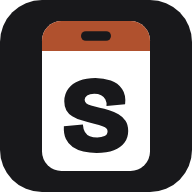
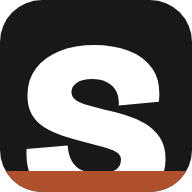
Switch to the cropped-s mark; keep the site light on dark-mode phones
- Mark: the wordmark "s" cropped by the frame with a rust base, replacing
  the pass mark in the nav and in every favicon size (svg, ico, png,
  apple-touch-icon)
- Declare color-scheme "only light" on every page. "light" alone still
  lets Chrome on Android auto-darken the page; "only light" opts out

Claude-Session: https://claude.ai/code/session_01EpaGSmBT7cHG5hsehJczMG

diff --git a/projects/index.html b/projects/index.html
@@ -2,6 +2,7 @@
 <html lang="en">
 <head>
 <meta charset="utf-8">
+<meta name="color-scheme" content="only light">
 <meta name="viewport" content="width=device-width, initial-scale=1, viewport-fit=cover">
 <title>Work | Stanley Ojima</title>
 <meta name="description" content="Case studies and shipped work by Stanley Ojima across HR, fintech, analytics, health and logistics.">
@@ -822,15 +823,16 @@ document.addEventListener('DOMContentLoaded',()=>{const v=[...document.querySele
   @media (max-width:860px){.ls-grid{grid-template-columns:1fr;gap:clamp(1.8rem,5vw,2.4rem)}.ls p{max-width:none}}
   @media (prefers-reduced-motion:reduce){.ls-shot img,.ls-go i{transition:none}.ls:hover .ls-shot img{transform:none}}
 </style>
-<style id="mark-pass">.mark,.g-mark{display:grid!important;place-items:center}.mark svg,.g-mark svg{width:64%;height:auto;display:block}</style>
+<style id="mark-pass">.mark,.g-mark{display:block!important;overflow:hidden;padding:0!important}.mark svg,.g-mark svg{width:100%;height:100%;display:block}</style>
+<style id="light-only">:root{color-scheme:only light}</style>
 </head>
 <body>
-<header class="gnav"><nav class="gcap" aria-label="Primary"><a class="g-mark" href="../" aria-label="Stanley Ojima, home"><svg viewBox="12 5 40 54" width="100%" height="100%" aria-hidden="true"><rect x="14" y="7" width="36" height="50" rx="6.5" fill="#fff"/><path d="M20.5 7h23a6.5 6.5 0 0 1 6.5 6.5V17H14v-3.5A6.5 6.5 0 0 1 20.5 7z" fill="#b0512e"/><rect x="27" y="10.4" width="10" height="3.2" rx="1.6" fill="#18181b"/><g fill="#18181b"><path d="M267 -14Q214 -14 168.5 -3.5Q123 7 89.5 30.0Q56 53 38.5 91.5Q21 130 24 185L165 197Q167 164 180.0 142.5Q193 121 216.0 111.0Q239 101 272 101Q303 101 325.5 111.5Q348 122 348 147Q348 160 340.0 168.5Q332 177 310.5 184.5Q289 192 248 202Q197 215 156.0 228.0Q115 241 86.0 259.0Q57 277 42.0 303.5Q27 330 27 369Q27 424 56.5 462.5Q86 501 138.0 521.5Q190 542 258 542Q319 542 372.0 523.0Q425 504 455.5 461.0Q486 418 478 347L340 334Q343 363 332.0 383.5Q321 404 300.0 414.5Q279 425 249 425Q215 425 196.5 412.5Q178 400 178 381Q178 366 189.5 355.5Q201 345 225.5 337.5Q250 330 289 321Q323 314 360.0 303.0Q397 292 429.0 273.5Q461 255 481.0 225.0Q501 195 501 149Q501 100 474.0 63.0Q447 26 395.0 6.0Q343 -14 267 -14Z" transform="translate(20.21 50.37) scale(0.04496 -0.04496)"/></g></svg></a><a class="g-lnk" href="../about/">About</a><a class="g-lnk on" href="../projects/">Projects</a><a class="g-lnk" href="#contact">Contact</a><a class="g-cv" href="#" data-resume>Resume</a></nav></header>
+<header class="gnav"><nav class="gcap" aria-label="Primary"><a class="g-mark" href="../" aria-label="Stanley Ojima, home"><svg viewBox="0 0 64 64" width="100%" height="100%" aria-hidden="true"><g fill="#fff"><path d="M267 -14Q214 -14 168.5 -3.5Q123 7 89.5 30.0Q56 53 38.5 91.5Q21 130 24 185L165 197Q167 164 180.0 142.5Q193 121 216.0 111.0Q239 101 272 101Q303 101 325.5 111.5Q348 122 348 147Q348 160 340.0 168.5Q332 177 310.5 184.5Q289 192 248 202Q197 215 156.0 228.0Q115 241 86.0 259.0Q57 277 42.0 303.5Q27 330 27 369Q27 424 56.5 462.5Q86 501 138.0 521.5Q190 542 258 542Q319 542 372.0 523.0Q425 504 455.5 461.0Q486 418 478 347L340 334Q343 363 332.0 383.5Q321 404 300.0 414.5Q279 425 249 425Q215 425 196.5 412.5Q178 400 178 381Q178 366 189.5 355.5Q201 345 225.5 337.5Q250 330 289 321Q323 314 360.0 303.0Q397 292 429.0 273.5Q461 255 481.0 225.0Q501 195 501 149Q501 100 474.0 63.0Q447 26 395.0 6.0Q343 -14 267 -14Z" transform="translate(6.53 67.64) scale(0.09712 -0.09712)"/></g><rect y="57" width="64" height="7" fill="#b0512e"/></svg></a><a class="g-lnk" href="../about/">About</a><a class="g-lnk on" href="../projects/">Projects</a><a class="g-lnk" href="#contact">Contact</a><a class="g-cv" href="#" data-resume>Resume</a></nav></header>
 <div class="boot" aria-hidden="true"><div class="boot-name" data-text="projects"></div><div class="boot-row">Five case studies</div></div>
 
 <header class="nav">
   <nav class="capsule" aria-label="Primary">
-    <a class="mark" href="#top" aria-label="Stanley Ojima, home"><svg viewBox="12 5 40 54" width="100%" height="100%" aria-hidden="true"><rect x="14" y="7" width="36" height="50" rx="6.5" fill="#fff"/><path d="M20.5 7h23a6.5 6.5 0 0 1 6.5 6.5V17H14v-3.5A6.5 6.5 0 0 1 20.5 7z" fill="#b0512e"/><rect x="27" y="10.4" width="10" height="3.2" rx="1.6" fill="#18181b"/><g fill="#18181b"><path d="M267 -14Q214 -14 168.5 -3.5Q123 7 89.5 30.0Q56 53 38.5 91.5Q21 130 24 185L165 197Q167 164 180.0 142.5Q193 121 216.0 111.0Q239 101 272 101Q303 101 325.5 111.5Q348 122 348 147Q348 160 340.0 168.5Q332 177 310.5 184.5Q289 192 248 202Q197 215 156.0 228.0Q115 241 86.0 259.0Q57 277 42.0 303.5Q27 330 27 369Q27 424 56.5 462.5Q86 501 138.0 521.5Q190 542 258 542Q319 542 372.0 523.0Q425 504 455.5 461.0Q486 418 478 347L340 334Q343 363 332.0 383.5Q321 404 300.0 414.5Q279 425 249 425Q215 425 196.5 412.5Q178 400 178 381Q178 366 189.5 355.5Q201 345 225.5 337.5Q250 330 289 321Q323 314 360.0 303.0Q397 292 429.0 273.5Q461 255 481.0 225.0Q501 195 501 149Q501 100 474.0 63.0Q447 26 395.0 6.0Q343 -14 267 -14Z" transform="translate(20.21 50.37) scale(0.04496 -0.04496)"/></g></svg></a>
+    <a class="mark" href="#top" aria-label="Stanley Ojima, home"><svg viewBox="0 0 64 64" width="100%" height="100%" aria-hidden="true"><g fill="#fff"><path d="M267 -14Q214 -14 168.5 -3.5Q123 7 89.5 30.0Q56 53 38.5 91.5Q21 130 24 185L165 197Q167 164 180.0 142.5Q193 121 216.0 111.0Q239 101 272 101Q303 101 325.5 111.5Q348 122 348 147Q348 160 340.0 168.5Q332 177 310.5 184.5Q289 192 248 202Q197 215 156.0 228.0Q115 241 86.0 259.0Q57 277 42.0 303.5Q27 330 27 369Q27 424 56.5 462.5Q86 501 138.0 521.5Q190 542 258 542Q319 542 372.0 523.0Q425 504 455.5 461.0Q486 418 478 347L340 334Q343 363 332.0 383.5Q321 404 300.0 414.5Q279 425 249 425Q215 425 196.5 412.5Q178 400 178 381Q178 366 189.5 355.5Q201 345 225.5 337.5Q250 330 289 321Q323 314 360.0 303.0Q397 292 429.0 273.5Q461 255 481.0 225.0Q501 195 501 149Q501 100 474.0 63.0Q447 26 395.0 6.0Q343 -14 267 -14Z" transform="translate(6.53 67.64) scale(0.09712 -0.09712)"/></g><rect y="57" width="64" height="7" fill="#b0512e"/></svg></a>
     <a class="lnk" href="../about/">About</a>
     <a class="lnk" href="./">Projects</a>
     <a class="lnk" href="#contact">Contact</a>
@@ -1294,7 +1296,7 @@ document.addEventListener('DOMContentLoaded',()=>{const v=[...document.querySele
 </script>
 <header class="nav snav" id="snav" inert>
   <nav class="capsule" aria-label="Primary (sticky)">
-    <a class="mark" href="#top" aria-label="Stanley Ojima, home"><svg viewBox="12 5 40 54" width="100%" height="100%" aria-hidden="true"><rect x="14" y="7" width="36" height="50" rx="6.5" fill="#fff"/><path d="M20.5 7h23a6.5 6.5 0 0 1 6.5 6.5V17H14v-3.5A6.5 6.5 0 0 1 20.5 7z" fill="#b0512e"/><rect x="27" y="10.4" width="10" height="3.2" rx="1.6" fill="#18181b"/><g fill="#18181b"><path d="M267 -14Q214 -14 168.5 -3.5Q123 7 89.5 30.0Q56 53 38.5 91.5Q21 130 24 185L165 197Q167 164 180.0 142.5Q193 121 216.0 111.0Q239 101 272 101Q303 101 325.5 111.5Q348 122 348 147Q348 160 340.0 168.5Q332 177 310.5 184.5Q289 192 248 202Q197 215 156.0 228.0Q115 241 86.0 259.0Q57 277 42.0 303.5Q27 330 27 369Q27 424 56.5 462.5Q86 501 138.0 521.5Q190 542 258 542Q319 542 372.0 523.0Q425 504 455.5 461.0Q486 418 478 347L340 334Q343 363 332.0 383.5Q321 404 300.0 414.5Q279 425 249 425Q215 425 196.5 412.5Q178 400 178 381Q178 366 189.5 355.5Q201 345 225.5 337.5Q250 330 289 321Q323 314 360.0 303.0Q397 292 429.0 273.5Q461 255 481.0 225.0Q501 195 501 149Q501 100 474.0 63.0Q447 26 395.0 6.0Q343 -14 267 -14Z" transform="translate(20.21 50.37) scale(0.04496 -0.04496)"/></g></svg></a>
+    <a class="mark" href="#top" aria-label="Stanley Ojima, home"><svg viewBox="0 0 64 64" width="100%" height="100%" aria-hidden="true"><g fill="#fff"><path d="M267 -14Q214 -14 168.5 -3.5Q123 7 89.5 30.0Q56 53 38.5 91.5Q21 130 24 185L165 197Q167 164 180.0 142.5Q193 121 216.0 111.0Q239 101 272 101Q303 101 325.5 111.5Q348 122 348 147Q348 160 340.0 168.5Q332 177 310.5 184.5Q289 192 248 202Q197 215 156.0 228.0Q115 241 86.0 259.0Q57 277 42.0 303.5Q27 330 27 369Q27 424 56.5 462.5Q86 501 138.0 521.5Q190 542 258 542Q319 542 372.0 523.0Q425 504 455.5 461.0Q486 418 478 347L340 334Q343 363 332.0 383.5Q321 404 300.0 414.5Q279 425 249 425Q215 425 196.5 412.5Q178 400 178 381Q178 366 189.5 355.5Q201 345 225.5 337.5Q250 330 289 321Q323 314 360.0 303.0Q397 292 429.0 273.5Q461 255 481.0 225.0Q501 195 501 149Q501 100 474.0 63.0Q447 26 395.0 6.0Q343 -14 267 -14Z" transform="translate(6.53 67.64) scale(0.09712 -0.09712)"/></g><rect y="57" width="64" height="7" fill="#b0512e"/></svg></a>
     <a class="lnk" href="../about/">About</a>
     <a class="lnk" href="./">Projects</a>
     <a class="lnk" href="#contact">Contact</a>

diff --git a/index.html b/index.html
@@ -2,6 +2,7 @@
 <html lang="en">
 <head>
 <meta charset="utf-8">
+<meta name="color-scheme" content="only light">
 <meta name="viewport" content="width=device-width, initial-scale=1, viewport-fit=cover">
 <title>Stanley Ojima, Senior Product Designer</title>
 <meta name="description" content="Senior product designer with 8+ years on B2B SaaS and enterprise products: GoCo (acquired by Intuit), Risevest, Lenox Park and DRO Health, and co-founder of QuickFleet.">
@@ -862,14 +863,15 @@ html.mm-lock,html.mm-lock body{overflow:hidden}
   .badge.sm .card .sub2 .ent{display:none}
   .badge .sleeve{--tilt:-4deg}}
 @media (max-width:767px) and (max-height:780px){.mtop{padding-top:86px!important;padding-bottom:10px!important}.mtop .claim{font-size:20px!important}.mtop .mnow{margin-top:14px;font-size:13.5px}}</style>
-<style id="mark-pass">.mark,.g-mark{display:grid!important;place-items:center}.mark svg,.g-mark svg{width:64%;height:auto;display:block}</style>
+<style id="mark-pass">.mark,.g-mark{display:block!important;overflow:hidden;padding:0!important}.mark svg,.g-mark svg{width:100%;height:100%;display:block}</style>
+<style id="light-only">:root{color-scheme:only light}</style>
 </head>
 <body>
 <div class="boot" aria-hidden="true"><div class="boot-name" data-text="stanley ojima"></div><div class="boot-row">Senior product designer</div></div>
 
 <header class="nav">
   <nav class="capsule" aria-label="Primary">
-    <a class="mark" href="#top" aria-label="Stanley Ojima, home"><svg viewBox="12 5 40 54" width="100%" height="100%" aria-hidden="true"><rect x="14" y="7" width="36" height="50" rx="6.5" fill="#fff"/><path d="M20.5 7h23a6.5 6.5 0 0 1 6.5 6.5V17H14v-3.5A6.5 6.5 0 0 1 20.5 7z" fill="#b0512e"/><rect x="27" y="10.4" width="10" height="3.2" rx="1.6" fill="#18181b"/><g fill="#18181b"><path d="M267 -14Q214 -14 168.5 -3.5Q123 7 89.5 30.0Q56 53 38.5 91.5Q21 130 24 185L165 197Q167 164 180.0 142.5Q193 121 216.0 111.0Q239 101 272 101Q303 101 325.5 111.5Q348 122 348 147Q348 160 340.0 168.5Q332 177 310.5 184.5Q289 192 248 202Q197 215 156.0 228.0Q115 241 86.0 259.0Q57 277 42.0 303.5Q27 330 27 369Q27 424 56.5 462.5Q86 501 138.0 521.5Q190 542 258 542Q319 542 372.0 523.0Q425 504 455.5 461.0Q486 418 478 347L340 334Q343 363 332.0 383.5Q321 404 300.0 414.5Q279 425 249 425Q215 425 196.5 412.5Q178 400 178 381Q178 366 189.5 355.5Q201 345 225.5 337.5Q250 330 289 321Q323 314 360.0 303.0Q397 292 429.0 273.5Q461 255 481.0 225.0Q501 195 501 149Q501 100 474.0 63.0Q447 26 395.0 6.0Q343 -14 267 -14Z" transform="translate(20.21 50.37) scale(0.04496 -0.04496)"/></g></svg></a>
+    <a class="mark" href="#top" aria-label="Stanley Ojima, home"><svg viewBox="0 0 64 64" width="100%" height="100%" aria-hidden="true"><g fill="#fff"><path d="M267 -14Q214 -14 168.5 -3.5Q123 7 89.5 30.0Q56 53 38.5 91.5Q21 130 24 185L165 197Q167 164 180.0 142.5Q193 121 216.0 111.0Q239 101 272 101Q303 101 325.5 111.5Q348 122 348 147Q348 160 340.0 168.5Q332 177 310.5 184.5Q289 192 248 202Q197 215 156.0 228.0Q115 241 86.0 259.0Q57 277 42.0 303.5Q27 330 27 369Q27 424 56.5 462.5Q86 501 138.0 521.5Q190 542 258 542Q319 542 372.0 523.0Q425 504 455.5 461.0Q486 418 478 347L340 334Q343 363 332.0 383.5Q321 404 300.0 414.5Q279 425 249 425Q215 425 196.5 412.5Q178 400 178 381Q178 366 189.5 355.5Q201 345 225.5 337.5Q250 330 289 321Q323 314 360.0 303.0Q397 292 429.0 273.5Q461 255 481.0 225.0Q501 195 501 149Q501 100 474.0 63.0Q447 26 395.0 6.0Q343 -14 267 -14Z" transform="translate(6.53 67.64) scale(0.09712 -0.09712)"/></g><rect y="57" width="64" height="7" fill="#b0512e"/></svg></a>
     <a class="lnk" href="about/">About</a>
     <a class="lnk" href="projects/">Projects</a>
     <a class="lnk" href="#contact">Contact</a>
@@ -1461,7 +1463,7 @@ html.mm-lock,html.mm-lock body{overflow:hidden}
 </script>
 <header class="nav snav" id="snav" inert>
   <nav class="capsule" aria-label="Primary (sticky)">
-    <a class="mark" href="#top" aria-label="Stanley Ojima, home"><svg viewBox="12 5 40 54" width="100%" height="100%" aria-hidden="true"><rect x="14" y="7" width="36" height="50" rx="6.5" fill="#fff"/><path d="M20.5 7h23a6.5 6.5 0 0 1 6.5 6.5V17H14v-3.5A6.5 6.5 0 0 1 20.5 7z" fill="#b0512e"/><rect x="27" y="10.4" width="10" height="3.2" rx="1.6" fill="#18181b"/><g fill="#18181b"><path d="M267 -14Q214 -14 168.5 -3.5Q123 7 89.5 30.0Q56 53 38.5 91.5Q21 130 24 185L165 197Q167 164 180.0 142.5Q193 121 216.0 111.0Q239 101 272 101Q303 101 325.5 111.5Q348 122 348 147Q348 160 340.0 168.5Q332 177 310.5 184.5Q289 192 248 202Q197 215 156.0 228.0Q115 241 86.0 259.0Q57 277 42.0 303.5Q27 330 27 369Q27 424 56.5 462.5Q86 501 138.0 521.5Q190 542 258 542Q319 542 372.0 523.0Q425 504 455.5 461.0Q486 418 478 347L340 334Q343 363 332.0 383.5Q321 404 300.0 414.5Q279 425 249 425Q215 425 196.5 412.5Q178 400 178 381Q178 366 189.5 355.5Q201 345 225.5 337.5Q250 330 289 321Q323 314 360.0 303.0Q397 292 429.0 273.5Q461 255 481.0 225.0Q501 195 501 149Q501 100 474.0 63.0Q447 26 395.0 6.0Q343 -14 267 -14Z" transform="translate(20.21 50.37) scale(0.04496 -0.04496)"/></g></svg></a>
+    <a class="mark" href="#top" aria-label="Stanley Ojima, home"><svg viewBox="0 0 64 64" width="100%" height="100%" aria-hidden="true"><g fill="#fff"><path d="M267 -14Q214 -14 168.5 -3.5Q123 7 89.5 30.0Q56 53 38.5 91.5Q21 130 24 185L165 197Q167 164 180.0 142.5Q193 121 216.0 111.0Q239 101 272 101Q303 101 325.5 111.5Q348 122 348 147Q348 160 340.0 168.5Q332 177 310.5 184.5Q289 192 248 202Q197 215 156.0 228.0Q115 241 86.0 259.0Q57 277 42.0 303.5Q27 330 27 369Q27 424 56.5 462.5Q86 501 138.0 521.5Q190 542 258 542Q319 542 372.0 523.0Q425 504 455.5 461.0Q486 418 478 347L340 334Q343 363 332.0 383.5Q321 404 300.0 414.5Q279 425 249 425Q215 425 196.5 412.5Q178 400 178 381Q178 366 189.5 355.5Q201 345 225.5 337.5Q250 330 289 321Q323 314 360.0 303.0Q397 292 429.0 273.5Q461 255 481.0 225.0Q501 195 501 149Q501 100 474.0 63.0Q447 26 395.0 6.0Q343 -14 267 -14Z" transform="translate(6.53 67.64) scale(0.09712 -0.09712)"/></g><rect y="57" width="64" height="7" fill="#b0512e"/></svg></a>
     <a class="lnk" href="about/">About</a>
     <a class="lnk" href="projects/">Projects</a>
     <a class="lnk" href="#contact">Contact</a>

diff --git a/projects/quickfleet/index.html b/projects/quickfleet/index.html
@@ -3,7 +3,7 @@
 <head>
 <meta charset="UTF-8" />
 <meta name="viewport" content="width=device-width, initial-scale=1.0" />
-<meta name="color-scheme" content="light" />
+<meta name="color-scheme" content="only light">
 <title>QuickFleet case study | Stanley Ojima</title>
 <meta name="description" content="QuickFleet case study: co-founded an electric delivery network for Nigerian cities, and designed the website and customer app it runs on.">
 <link rel="canonical" href="https://stanleyojima.xyz/projects/quickfleet/">
@@ -1684,11 +1684,12 @@ html.boot-on .wordmark{opacity:0}
 @media (max-width:640px){.rp-head{flex-direction:column;align-items:flex-start}.rp-contact{text-align:left}.rp-name{font-size:28px}.rp-row{flex-direction:column;gap:.1rem}}
 </style>
 <script defer src="/_vercel/insights/script.js"></script>
-<style id="mark-pass">.mark,.g-mark{display:grid!important;place-items:center}.mark svg,.g-mark svg{width:64%;height:auto;display:block}</style>
+<style id="mark-pass">.mark,.g-mark{display:block!important;overflow:hidden;padding:0!important}.mark svg,.g-mark svg{width:100%;height:100%;display:block}</style>
+<style id="light-only">:root{color-scheme:only light}</style>
 </head>
 <body id="top">
 <div class="boot" aria-hidden="true"><div class="boot-name" data-text="QuickFleet"></div><div class="boot-row">Electric delivery network</div></div>
-<header class="gnav"><nav class="gcap" aria-label="Primary"><a class="g-mark" href="../../" aria-label="Stanley Ojima, home"><svg viewBox="12 5 40 54" width="100%" height="100%" aria-hidden="true"><rect x="14" y="7" width="36" height="50" rx="6.5" fill="#fff"/><path d="M20.5 7h23a6.5 6.5 0 0 1 6.5 6.5V17H14v-3.5A6.5 6.5 0 0 1 20.5 7z" fill="#b0512e"/><rect x="27" y="10.4" width="10" height="3.2" rx="1.6" fill="#18181b"/><g fill="#18181b"><path d="M267 -14Q214 -14 168.5 -3.5Q123 7 89.5 30.0Q56 53 38.5 91.5Q21 130 24 185L165 197Q167 164 180.0 142.5Q193 121 216.0 111.0Q239 101 272 101Q303 101 325.5 111.5Q348 122 348 147Q348 160 340.0 168.5Q332 177 310.5 184.5Q289 192 248 202Q197 215 156.0 228.0Q115 241 86.0 259.0Q57 277 42.0 303.5Q27 330 27 369Q27 424 56.5 462.5Q86 501 138.0 521.5Q190 542 258 542Q319 542 372.0 523.0Q425 504 455.5 461.0Q486 418 478 347L340 334Q343 363 332.0 383.5Q321 404 300.0 414.5Q279 425 249 425Q215 425 196.5 412.5Q178 400 178 381Q178 366 189.5 355.5Q201 345 225.5 337.5Q250 330 289 321Q323 314 360.0 303.0Q397 292 429.0 273.5Q461 255 481.0 225.0Q501 195 501 149Q501 100 474.0 63.0Q447 26 395.0 6.0Q343 -14 267 -14Z" transform="translate(20.21 50.37) scale(0.04496 -0.04496)"/></g></svg></a><a class="g-lnk" href="../../about/">About</a><a class="g-lnk" href="../../projects/">Projects</a><a class="g-lnk" href="#contact">Contact</a><a class="g-cv" href="#" data-resume>Resume</a></nav></header>
+<header class="gnav"><nav class="gcap" aria-label="Primary"><a class="g-mark" href="../../" aria-label="Stanley Ojima, home"><svg viewBox="0 0 64 64" width="100%" height="100%" aria-hidden="true"><g fill="#fff"><path d="M267 -14Q214 -14 168.5 -3.5Q123 7 89.5 30.0Q56 53 38.5 91.5Q21 130 24 185L165 197Q167 164 180.0 142.5Q193 121 216.0 111.0Q239 101 272 101Q303 101 325.5 111.5Q348 122 348 147Q348 160 340.0 168.5Q332 177 310.5 184.5Q289 192 248 202Q197 215 156.0 228.0Q115 241 86.0 259.0Q57 277 42.0 303.5Q27 330 27 369Q27 424 56.5 462.5Q86 501 138.0 521.5Q190 542 258 542Q319 542 372.0 523.0Q425 504 455.5 461.0Q486 418 478 347L340 334Q343 363 332.0 383.5Q321 404 300.0 414.5Q279 425 249 425Q215 425 196.5 412.5Q178 400 178 381Q178 366 189.5 355.5Q201 345 225.5 337.5Q250 330 289 321Q323 314 360.0 303.0Q397 292 429.0 273.5Q461 255 481.0 225.0Q501 195 501 149Q501 100 474.0 63.0Q447 26 395.0 6.0Q343 -14 267 -14Z" transform="translate(6.53 67.64) scale(0.09712 -0.09712)"/></g><rect y="57" width="64" height="7" fill="#b0512e"/></svg></a><a class="g-lnk" href="../../about/">About</a><a class="g-lnk" href="../../projects/">Projects</a><a class="g-lnk" href="#contact">Contact</a><a class="g-cv" href="#" data-resume>Resume</a></nav></header>
 <div class="grain" aria-hidden="true"></div>
 <header class="nav nav-pill">
   <div class="nav-inner"><div class="capsule">

diff --git a/projects/goco/index.html b/projects/goco/index.html
@@ -3,7 +3,7 @@
 <head>
 <meta charset="UTF-8" />
 <meta name="viewport" content="width=device-width, initial-scale=1.0" />
-<meta name="color-scheme" content="light" />
+<meta name="color-scheme" content="only light">
 <title>GoCo case study | Stanley Ojima</title>
 <meta name="description" content="GoCo case study: led design across an HR platform for 200K+ users and rebuilt Reports, the feature customers trusted least. Support tickets down 30%.">
 <link rel="canonical" href="https://stanleyojima.xyz/projects/goco/">
@@ -1733,11 +1733,12 @@ html.boot-on .wordmark{opacity:0}
 @media (max-width:640px){.rp-head{flex-direction:column;align-items:flex-start}.rp-contact{text-align:left}.rp-name{font-size:28px}.rp-row{flex-direction:column;gap:.1rem}}
 </style>
 <script defer src="/_vercel/insights/script.js"></script>
-<style id="mark-pass">.mark,.g-mark{display:grid!important;place-items:center}.mark svg,.g-mark svg{width:64%;height:auto;display:block}</style>
+<style id="mark-pass">.mark,.g-mark{display:block!important;overflow:hidden;padding:0!important}.mark svg,.g-mark svg{width:100%;height:100%;display:block}</style>
+<style id="light-only">:root{color-scheme:only light}</style>
 </head>
 <body id="top">
 <div class="boot" aria-hidden="true"><div class="boot-name" data-text="GoCo"></div><div class="boot-row">HR, benefits and payroll</div></div>
-<header class="gnav"><nav class="gcap" aria-label="Primary"><a class="g-mark" href="../../" aria-label="Stanley Ojima, home"><svg viewBox="12 5 40 54" width="100%" height="100%" aria-hidden="true"><rect x="14" y="7" width="36" height="50" rx="6.5" fill="#fff"/><path d="M20.5 7h23a6.5 6.5 0 0 1 6.5 6.5V17H14v-3.5A6.5 6.5 0 0 1 20.5 7z" fill="#b0512e"/><rect x="27" y="10.4" width="10" height="3.2" rx="1.6" fill="#18181b"/><g fill="#18181b"><path d="M267 -14Q214 -14 168.5 -3.5Q123 7 89.5 30.0Q56 53 38.5 91.5Q21 130 24 185L165 197Q167 164 180.0 142.5Q193 121 216.0 111.0Q239 101 272 101Q303 101 325.5 111.5Q348 122 348 147Q348 160 340.0 168.5Q332 177 310.5 184.5Q289 192 248 202Q197 215 156.0 228.0Q115 241 86.0 259.0Q57 277 42.0 303.5Q27 330 27 369Q27 424 56.5 462.5Q86 501 138.0 521.5Q190 542 258 542Q319 542 372.0 523.0Q425 504 455.5 461.0Q486 418 478 347L340 334Q343 363 332.0 383.5Q321 404 300.0 414.5Q279 425 249 425Q215 425 196.5 412.5Q178 400 178 381Q178 366 189.5 355.5Q201 345 225.5 337.5Q250 330 289 321Q323 314 360.0 303.0Q397 292 429.0 273.5Q461 255 481.0 225.0Q501 195 501 149Q501 100 474.0 63.0Q447 26 395.0 6.0Q343 -14 267 -14Z" transform="translate(20.21 50.37) scale(0.04496 -0.04496)"/></g></svg></a><a class="g-lnk" href="../../about/">About</a><a class="g-lnk" href="../../projects/">Projects</a><a class="g-lnk" href="#contact">Contact</a><a class="g-cv" href="#" data-resume>Resume</a></nav></header>
+<header class="gnav"><nav class="gcap" aria-label="Primary"><a class="g-mark" href="../../" aria-label="Stanley Ojima, home"><svg viewBox="0 0 64 64" width="100%" height="100%" aria-hidden="true"><g fill="#fff"><path d="M267 -14Q214 -14 168.5 -3.5Q123 7 89.5 30.0Q56 53 38.5 91.5Q21 130 24 185L165 197Q167 164 180.0 142.5Q193 121 216.0 111.0Q239 101 272 101Q303 101 325.5 111.5Q348 122 348 147Q348 160 340.0 168.5Q332 177 310.5 184.5Q289 192 248 202Q197 215 156.0 228.0Q115 241 86.0 259.0Q57 277 42.0 303.5Q27 330 27 369Q27 424 56.5 462.5Q86 501 138.0 521.5Q190 542 258 542Q319 542 372.0 523.0Q425 504 455.5 461.0Q486 418 478 347L340 334Q343 363 332.0 383.5Q321 404 300.0 414.5Q279 425 249 425Q215 425 196.5 412.5Q178 400 178 381Q178 366 189.5 355.5Q201 345 225.5 337.5Q250 330 289 321Q323 314 360.0 303.0Q397 292 429.0 273.5Q461 255 481.0 225.0Q501 195 501 149Q501 100 474.0 63.0Q447 26 395.0 6.0Q343 -14 267 -14Z" transform="translate(6.53 67.64) scale(0.09712 -0.09712)"/></g><rect y="57" width="64" height="7" fill="#b0512e"/></svg></a><a class="g-lnk" href="../../about/">About</a><a class="g-lnk" href="../../projects/">Projects</a><a class="g-lnk" href="#contact">Contact</a><a class="g-cv" href="#" data-resume>Resume</a></nav></header>
 <div class="grain" aria-hidden="true"></div>
 <header class="nav nav-pill">
   <div class="nav-inner"><div class="capsule">

diff --git a/404.html b/404.html
@@ -1,5 +1,5 @@
 <!DOCTYPE html><html lang="en"><head>
-<meta charset="UTF-8" /><meta name="viewport" content="width=device-width, initial-scale=1.0" /><meta name="color-scheme" content="light" />
+<meta charset="UTF-8" /><meta name="viewport" content="width=device-width, initial-scale=1.0" /><meta name="color-scheme" content="only light">
 <title>Page not found | Stanley Ojima</title>
 <meta name="robots" content="noindex">
 <link rel="icon" href="/favicon.ico" sizes="48x48">
@@ -494,10 +494,11 @@
 </style><link href="https://fonts.googleapis.com/css2?family=Geist:wght@300..800&family=Geist+Mono:wght@400;500&display=swap" rel="stylesheet">
 <style>html:root{--display:'Geist',system-ui,sans-serif;--body:'Geist',system-ui,sans-serif;--mono:'Geist Mono',ui-monospace,monospace}h1,h2,p,a{text-transform:none!important}</style>
 <script defer src="/_vercel/insights/script.js"></script>
-<style id="mark-pass">.mark,.g-mark{display:grid!important;place-items:center}.mark svg,.g-mark svg{width:64%;height:auto;display:block}</style>
+<style id="mark-pass">.mark,.g-mark{display:block!important;overflow:hidden;padding:0!important}.mark svg,.g-mark svg{width:100%;height:100%;display:block}</style>
+<style id="light-only">:root{color-scheme:only light}</style>
 </head>
 <body id="top">
-<header class="gnav"><nav class="gcap" aria-label="Primary"><a class="g-mark" href="/" aria-label="Stanley Ojima, home"><svg viewBox="12 5 40 54" width="100%" height="100%" aria-hidden="true"><rect x="14" y="7" width="36" height="50" rx="6.5" fill="#fff"/><path d="M20.5 7h23a6.5 6.5 0 0 1 6.5 6.5V17H14v-3.5A6.5 6.5 0 0 1 20.5 7z" fill="#b0512e"/><rect x="27" y="10.4" width="10" height="3.2" rx="1.6" fill="#18181b"/><g fill="#18181b"><path d="M267 -14Q214 -14 168.5 -3.5Q123 7 89.5 30.0Q56 53 38.5 91.5Q21 130 24 185L165 197Q167 164 180.0 142.5Q193 121 216.0 111.0Q239 101 272 101Q303 101 325.5 111.5Q348 122 348 147Q348 160 340.0 168.5Q332 177 310.5 184.5Q289 192 248 202Q197 215 156.0 228.0Q115 241 86.0 259.0Q57 277 42.0 303.5Q27 330 27 369Q27 424 56.5 462.5Q86 501 138.0 521.5Q190 542 258 542Q319 542 372.0 523.0Q425 504 455.5 461.0Q486 418 478 347L340 334Q343 363 332.0 383.5Q321 404 300.0 414.5Q279 425 249 425Q215 425 196.5 412.5Q178 400 178 381Q178 366 189.5 355.5Q201 345 225.5 337.5Q250 330 289 321Q323 314 360.0 303.0Q397 292 429.0 273.5Q461 255 481.0 225.0Q501 195 501 149Q501 100 474.0 63.0Q447 26 395.0 6.0Q343 -14 267 -14Z" transform="translate(20.21 50.37) scale(0.04496 -0.04496)"/></g></svg></a><a class="g-lnk" href="/about/">About</a><a class="g-lnk" href="/projects/">Projects</a><a class="g-lnk" href="#contact">Contact</a><a class="g-cv" href="#" data-resume>Resume</a></nav></header><div class="grain" aria-hidden="true"></div>
+<header class="gnav"><nav class="gcap" aria-label="Primary"><a class="g-mark" href="/" aria-label="Stanley Ojima, home"><svg viewBox="0 0 64 64" width="100%" height="100%" aria-hidden="true"><g fill="#fff"><path d="M267 -14Q214 -14 168.5 -3.5Q123 7 89.5 30.0Q56 53 38.5 91.5Q21 130 24 185L165 197Q167 164 180.0 142.5Q193 121 216.0 111.0Q239 101 272 101Q303 101 325.5 111.5Q348 122 348 147Q348 160 340.0 168.5Q332 177 310.5 184.5Q289 192 248 202Q197 215 156.0 228.0Q115 241 86.0 259.0Q57 277 42.0 303.5Q27 330 27 369Q27 424 56.5 462.5Q86 501 138.0 521.5Q190 542 258 542Q319 542 372.0 523.0Q425 504 455.5 461.0Q486 418 478 347L340 334Q343 363 332.0 383.5Q321 404 300.0 414.5Q279 425 249 425Q215 425 196.5 412.5Q178 400 178 381Q178 366 189.5 355.5Q201 345 225.5 337.5Q250 330 289 321Q323 314 360.0 303.0Q397 292 429.0 273.5Q461 255 481.0 225.0Q501 195 501 149Q501 100 474.0 63.0Q447 26 395.0 6.0Q343 -14 267 -14Z" transform="translate(6.53 67.64) scale(0.09712 -0.09712)"/></g><rect y="57" width="64" height="7" fill="#b0512e"/></svg></a><a class="g-lnk" href="/about/">About</a><a class="g-lnk" href="/projects/">Projects</a><a class="g-lnk" href="#contact">Contact</a><a class="g-cv" href="#" data-resume>Resume</a></nav></header><div class="grain" aria-hidden="true"></div>
 <main class="nf"><div class="nf-inner">
   <p class="nf-eyebrow">404</p>
   <h1 class="nf-title">This page wandered off.</h1>

diff --git a/projects/risevest/index.html b/projects/risevest/index.html
@@ -3,7 +3,7 @@
 <head>
 <meta charset="UTF-8" />
 <meta name="viewport" content="width=device-width, initial-scale=1.0" />
-<meta name="color-scheme" content="light" />
+<meta name="color-scheme" content="only light">
 <title>Risevest case study | Stanley Ojima</title>
 <meta name="description" content="Risevest case study: redesigned a dollar-investment app for 620K+ users. Onboarding completion rose from 34% to 58%.">
 <link rel="canonical" href="https://stanleyojima.xyz/projects/risevest/">
@@ -1689,11 +1689,12 @@ html.boot-on .wordmark{opacity:0}
 @media (max-width:640px){.rp-head{flex-direction:column;align-items:flex-start}.rp-contact{text-align:left}.rp-name{font-size:28px}.rp-row{flex-direction:column;gap:.1rem}}
 </style>
 <script defer src="/_vercel/insights/script.js"></script>
-<style id="mark-pass">.mark,.g-mark{display:grid!important;place-items:center}.mark svg,.g-mark svg{width:64%;height:auto;display:block}</style>
+<style id="mark-pass">.mark,.g-mark{display:block!important;overflow:hidden;padding:0!important}.mark svg,.g-mark svg{width:100%;height:100%;display:block}</style>
+<style id="light-only">:root{color-scheme:only light}</style>
 </head>
 <body id="top">
 <div class="boot" aria-hidden="true"><div class="boot-name" data-text="Risevest"></div><div class="boot-row">Investment app · 620K+ users</div></div>
-<header class="gnav"><nav class="gcap" aria-label="Primary"><a class="g-mark" href="../../" aria-label="Stanley Ojima, home"><svg viewBox="12 5 40 54" width="100%" height="100%" aria-hidden="true"><rect x="14" y="7" width="36" height="50" rx="6.5" fill="#fff"/><path d="M20.5 7h23a6.5 6.5 0 0 1 6.5 6.5V17H14v-3.5A6.5 6.5 0 0 1 20.5 7z" fill="#b0512e"/><rect x="27" y="10.4" width="10" height="3.2" rx="1.6" fill="#18181b"/><g fill="#18181b"><path d="M267 -14Q214 -14 168.5 -3.5Q123 7 89.5 30.0Q56 53 38.5 91.5Q21 130 24 185L165 197Q167 164 180.0 142.5Q193 121 216.0 111.0Q239 101 272 101Q303 101 325.5 111.5Q348 122 348 147Q348 160 340.0 168.5Q332 177 310.5 184.5Q289 192 248 202Q197 215 156.0 228.0Q115 241 86.0 259.0Q57 277 42.0 303.5Q27 330 27 369Q27 424 56.5 462.5Q86 501 138.0 521.5Q190 542 258 542Q319 542 372.0 523.0Q425 504 455.5 461.0Q486 418 478 347L340 334Q343 363 332.0 383.5Q321 404 300.0 414.5Q279 425 249 425Q215 425 196.5 412.5Q178 400 178 381Q178 366 189.5 355.5Q201 345 225.5 337.5Q250 330 289 321Q323 314 360.0 303.0Q397 292 429.0 273.5Q461 255 481.0 225.0Q501 195 501 149Q501 100 474.0 63.0Q447 26 395.0 6.0Q343 -14 267 -14Z" transform="translate(20.21 50.37) scale(0.04496 -0.04496)"/></g></svg></a><a class="g-lnk" href="../../about/">About</a><a class="g-lnk" href="../../projects/">Projects</a><a class="g-lnk" href="#contact">Contact</a><a class="g-cv" href="#" data-resume>Resume</a></nav></header>
+<header class="gnav"><nav class="gcap" aria-label="Primary"><a class="g-mark" href="../../" aria-label="Stanley Ojima, home"><svg viewBox="0 0 64 64" width="100%" height="100%" aria-hidden="true"><g fill="#fff"><path d="M267 -14Q214 -14 168.5 -3.5Q123 7 89.5 30.0Q56 53 38.5 91.5Q21 130 24 185L165 197Q167 164 180.0 142.5Q193 121 216.0 111.0Q239 101 272 101Q303 101 325.5 111.5Q348 122 348 147Q348 160 340.0 168.5Q332 177 310.5 184.5Q289 192 248 202Q197 215 156.0 228.0Q115 241 86.0 259.0Q57 277 42.0 303.5Q27 330 27 369Q27 424 56.5 462.5Q86 501 138.0 521.5Q190 542 258 542Q319 542 372.0 523.0Q425 504 455.5 461.0Q486 418 478 347L340 334Q343 363 332.0 383.5Q321 404 300.0 414.5Q279 425 249 425Q215 425 196.5 412.5Q178 400 178 381Q178 366 189.5 355.5Q201 345 225.5 337.5Q250 330 289 321Q323 314 360.0 303.0Q397 292 429.0 273.5Q461 255 481.0 225.0Q501 195 501 149Q501 100 474.0 63.0Q447 26 395.0 6.0Q343 -14 267 -14Z" transform="translate(6.53 67.64) scale(0.09712 -0.09712)"/></g><rect y="57" width="64" height="7" fill="#b0512e"/></svg></a><a class="g-lnk" href="../../about/">About</a><a class="g-lnk" href="../../projects/">Projects</a><a class="g-lnk" href="#contact">Contact</a><a class="g-cv" href="#" data-resume>Resume</a></nav></header>
 <div class="grain" aria-hidden="true"></div>
 <header class="nav nav-pill">
   <div class="nav-inner"><div class="capsule">

diff --git a/projects/lenox-park/index.html b/projects/lenox-park/index.html
@@ -3,7 +3,7 @@
 <head>
 <meta charset="UTF-8" />
 <meta name="viewport" content="width=device-width, initial-scale=1.0" />
-<meta name="color-scheme" content="light" />
+<meta name="color-scheme" content="only light">
 <title>Lenox Park case study | Stanley Ojima</title>
 <meta name="description" content="Lenox Park case study: sole designer on an analytics platform for institutional investors with $4T+ in client assets.">
 <link rel="canonical" href="https://stanleyojima.xyz/projects/lenox-park/">
@@ -1682,11 +1682,12 @@ html.boot-on .wordmark{opacity:0}
 @media (max-width:640px){.rp-head{flex-direction:column;align-items:flex-start}.rp-contact{text-align:left}.rp-name{font-size:28px}.rp-row{flex-direction:column;gap:.1rem}}
 </style>
 <script defer src="/_vercel/insights/script.js"></script>
-<style id="mark-pass">.mark,.g-mark{display:grid!important;place-items:center}.mark svg,.g-mark svg{width:64%;height:auto;display:block}</style>
+<style id="mark-pass">.mark,.g-mark{display:block!important;overflow:hidden;padding:0!important}.mark svg,.g-mark svg{width:100%;height:100%;display:block}</style>
+<style id="light-only">:root{color-scheme:only light}</style>
 </head>
 <body id="top">
 <div class="boot" aria-hidden="true"><div class="boot-name" data-text="Lenox Park"></div><div class="boot-row">DEI analytics</div></div>
-<header class="gnav"><nav class="gcap" aria-label="Primary"><a class="g-mark" href="../../" aria-label="Stanley Ojima, home"><svg viewBox="12 5 40 54" width="100%" height="100%" aria-hidden="true"><rect x="14" y="7" width="36" height="50" rx="6.5" fill="#fff"/><path d="M20.5 7h23a6.5 6.5 0 0 1 6.5 6.5V17H14v-3.5A6.5 6.5 0 0 1 20.5 7z" fill="#b0512e"/><rect x="27" y="10.4" width="10" height="3.2" rx="1.6" fill="#18181b"/><g fill="#18181b"><path d="M267 -14Q214 -14 168.5 -3.5Q123 7 89.5 30.0Q56 53 38.5 91.5Q21 130 24 185L165 197Q167 164 180.0 142.5Q193 121 216.0 111.0Q239 101 272 101Q303 101 325.5 111.5Q348 122 348 147Q348 160 340.0 168.5Q332 177 310.5 184.5Q289 192 248 202Q197 215 156.0 228.0Q115 241 86.0 259.0Q57 277 42.0 303.5Q27 330 27 369Q27 424 56.5 462.5Q86 501 138.0 521.5Q190 542 258 542Q319 542 372.0 523.0Q425 504 455.5 461.0Q486 418 478 347L340 334Q343 363 332.0 383.5Q321 404 300.0 414.5Q279 425 249 425Q215 425 196.5 412.5Q178 400 178 381Q178 366 189.5 355.5Q201 345 225.5 337.5Q250 330 289 321Q323 314 360.0 303.0Q397 292 429.0 273.5Q461 255 481.0 225.0Q501 195 501 149Q501 100 474.0 63.0Q447 26 395.0 6.0Q343 -14 267 -14Z" transform="translate(20.21 50.37) scale(0.04496 -0.04496)"/></g></svg></a><a class="g-lnk" href="../../about/">About</a><a class="g-lnk" href="../../projects/">Projects</a><a class="g-lnk" href="#contact">Contact</a><a class="g-cv" href="#" data-resume>Resume</a></nav></header>
+<header class="gnav"><nav class="gcap" aria-label="Primary"><a class="g-mark" href="../../" aria-label="Stanley Ojima, home"><svg viewBox="0 0 64 64" width="100%" height="100%" aria-hidden="true"><g fill="#fff"><path d="M267 -14Q214 -14 168.5 -3.5Q123 7 89.5 30.0Q56 53 38.5 91.5Q21 130 24 185L165 197Q167 164 180.0 142.5Q193 121 216.0 111.0Q239 101 272 101Q303 101 325.5 111.5Q348 122 348 147Q348 160 340.0 168.5Q332 177 310.5 184.5Q289 192 248 202Q197 215 156.0 228.0Q115 241 86.0 259.0Q57 277 42.0 303.5Q27 330 27 369Q27 424 56.5 462.5Q86 501 138.0 521.5Q190 542 258 542Q319 542 372.0 523.0Q425 504 455.5 461.0Q486 418 478 347L340 334Q343 363 332.0 383.5Q321 404 300.0 414.5Q279 425 249 425Q215 425 196.5 412.5Q178 400 178 381Q178 366 189.5 355.5Q201 345 225.5 337.5Q250 330 289 321Q323 314 360.0 303.0Q397 292 429.0 273.5Q461 255 481.0 225.0Q501 195 501 149Q501 100 474.0 63.0Q447 26 395.0 6.0Q343 -14 267 -14Z" transform="translate(6.53 67.64) scale(0.09712 -0.09712)"/></g><rect y="57" width="64" height="7" fill="#b0512e"/></svg></a><a class="g-lnk" href="../../about/">About</a><a class="g-lnk" href="../../projects/">Projects</a><a class="g-lnk" href="#contact">Contact</a><a class="g-cv" href="#" data-resume>Resume</a></nav></header>
 <div class="grain" aria-hidden="true"></div>
 <header class="nav nav-pill">
   <div class="nav-inner"><div class="capsule">

diff --git a/projects/dro-health/index.html b/projects/dro-health/index.html
@@ -3,7 +3,7 @@
 <head>
 <meta charset="UTF-8" />
 <meta name="viewport" content="width=device-width, initial-scale=1.0" />
-<meta name="color-scheme" content="light" />
+<meta name="color-scheme" content="only light">
 <title>DRO Health case study | Stanley Ojima</title>
 <meta name="description" content="DRO Health case study: redesigned telehealth for 50K+ users in Nigeria. Sign-up drop-off down 18%.">
 <link rel="canonical" href="https://stanleyojima.xyz/projects/dro-health/">
@@ -1792,11 +1792,12 @@ html.boot-on .wordmark{opacity:0}
 @media (max-width:640px){.rp-head{flex-direction:column;align-items:flex-start}.rp-contact{text-align:left}.rp-name{font-size:28px}.rp-row{flex-direction:column;gap:.1rem}}
 </style>
 <script defer src="/_vercel/insights/script.js"></script>
-<style id="mark-pass">.mark,.g-mark{display:grid!important;place-items:center}.mark svg,.g-mark svg{width:64%;height:auto;display:block}</style>
+<style id="mark-pass">.mark,.g-mark{display:block!important;overflow:hidden;padding:0!important}.mark svg,.g-mark svg{width:100%;height:100%;display:block}</style>
+<style id="light-only">:root{color-scheme:only light}</style>
 </head>
 <body id="top">
 <div class="boot" aria-hidden="true"><div class="boot-name" data-text="DRO Health"></div><div class="boot-row">Telehealth platform</div></div>
-<header class="gnav"><nav class="gcap" aria-label="Primary"><a class="g-mark" href="../../" aria-label="Stanley Ojima, home"><svg viewBox="12 5 40 54" width="100%" height="100%" aria-hidden="true"><rect x="14" y="7" width="36" height="50" rx="6.5" fill="#fff"/><path d="M20.5 7h23a6.5 6.5 0 0 1 6.5 6.5V17H14v-3.5A6.5 6.5 0 0 1 20.5 7z" fill="#b0512e"/><rect x="27" y="10.4" width="10" height="3.2" rx="1.6" fill="#18181b"/><g fill="#18181b"><path d="M267 -14Q214 -14 168.5 -3.5Q123 7 89.5 30.0Q56 53 38.5 91.5Q21 130 24 185L165 197Q167 164 180.0 142.5Q193 121 216.0 111.0Q239 101 272 101Q303 101 325.5 111.5Q348 122 348 147Q348 160 340.0 168.5Q332 177 310.5 184.5Q289 192 248 202Q197 215 156.0 228.0Q115 241 86.0 259.0Q57 277 42.0 303.5Q27 330 27 369Q27 424 56.5 462.5Q86 501 138.0 521.5Q190 542 258 542Q319 542 372.0 523.0Q425 504 455.5 461.0Q486 418 478 347L340 334Q343 363 332.0 383.5Q321 404 300.0 414.5Q279 425 249 425Q215 425 196.5 412.5Q178 400 178 381Q178 366 189.5 355.5Q201 345 225.5 337.5Q250 330 289 321Q323 314 360.0 303.0Q397 292 429.0 273.5Q461 255 481.0 225.0Q501 195 501 149Q501 100 474.0 63.0Q447 26 395.0 6.0Q343 -14 267 -14Z" transform="translate(20.21 50.37) scale(0.04496 -0.04496)"/></g></svg></a><a class="g-lnk" href="../../about/">About</a><a class="g-lnk" href="../../projects/">Projects</a><a class="g-lnk" href="#contact">Contact</a><a class="g-cv" href="#" data-resume>Resume</a></nav></header>
+<header class="gnav"><nav class="gcap" aria-label="Primary"><a class="g-mark" href="../../" aria-label="Stanley Ojima, home"><svg viewBox="0 0 64 64" width="100%" height="100%" aria-hidden="true"><g fill="#fff"><path d="M267 -14Q214 -14 168.5 -3.5Q123 7 89.5 30.0Q56 53 38.5 91.5Q21 130 24 185L165 197Q167 164 180.0 142.5Q193 121 216.0 111.0Q239 101 272 101Q303 101 325.5 111.5Q348 122 348 147Q348 160 340.0 168.5Q332 177 310.5 184.5Q289 192 248 202Q197 215 156.0 228.0Q115 241 86.0 259.0Q57 277 42.0 303.5Q27 330 27 369Q27 424 56.5 462.5Q86 501 138.0 521.5Q190 542 258 542Q319 542 372.0 523.0Q425 504 455.5 461.0Q486 418 478 347L340 334Q343 363 332.0 383.5Q321 404 300.0 414.5Q279 425 249 425Q215 425 196.5 412.5Q178 400 178 381Q178 366 189.5 355.5Q201 345 225.5 337.5Q250 330 289 321Q323 314 360.0 303.0Q397 292 429.0 273.5Q461 255 481.0 225.0Q501 195 501 149Q501 100 474.0 63.0Q447 26 395.0 6.0Q343 -14 267 -14Z" transform="translate(6.53 67.64) scale(0.09712 -0.09712)"/></g><rect y="57" width="64" height="7" fill="#b0512e"/></svg></a><a class="g-lnk" href="../../about/">About</a><a class="g-lnk" href="../../projects/">Projects</a><a class="g-lnk" href="#contact">Contact</a><a class="g-cv" href="#" data-resume>Resume</a></nav></header>
 <div class="grain" aria-hidden="true"></div>
 <header class="nav nav-pill">
   <div class="nav-inner"><div class="capsule">

diff --git a/about/index.html b/about/index.html
@@ -3,7 +3,7 @@
 <head>
 <meta charset="UTF-8" />
 <meta name="viewport" content="width=device-width, initial-scale=1.0" />
-<meta name="color-scheme" content="light" />
+<meta name="color-scheme" content="only light">
 <title>About | Stanley Ojima</title>
 <meta name="description" content="About Stanley Ojima: senior product designer with 8+ years on B2B SaaS and enterprise products across HR, fintech, health and logistics.">
 <link rel="canonical" href="https://stanleyojima.xyz/about/">
@@ -1742,11 +1742,12 @@ html.boot-on .wordmark{opacity:0}
 @media (max-width:640px){.rp-head{flex-direction:column;align-items:flex-start}.rp-contact{text-align:left}.rp-name{font-size:28px}.rp-row{flex-direction:column;gap:.1rem}}
 </style>
 <script defer src="/_vercel/insights/script.js"></script>
-<style id="mark-pass">.mark,.g-mark{display:grid!important;place-items:center}.mark svg,.g-mark svg{width:64%;height:auto;display:block}</style>
+<style id="mark-pass">.mark,.g-mark{display:block!important;overflow:hidden;padding:0!important}.mark svg,.g-mark svg{width:100%;height:100%;display:block}</style>
+<style id="light-only">:root{color-scheme:only light}</style>
 </head>
 <body id="top">
 <div class="boot" aria-hidden="true"><div class="boot-name" data-text="about"></div><div class="boot-row">Stanley Ojima</div></div>
-<header class="gnav"><nav class="gcap" aria-label="Primary"><a class="g-mark" href="../" aria-label="Stanley Ojima, home"><svg viewBox="12 5 40 54" width="100%" height="100%" aria-hidden="true"><rect x="14" y="7" width="36" height="50" rx="6.5" fill="#fff"/><path d="M20.5 7h23a6.5 6.5 0 0 1 6.5 6.5V17H14v-3.5A6.5 6.5 0 0 1 20.5 7z" fill="#b0512e"/><rect x="27" y="10.4" width="10" height="3.2" rx="1.6" fill="#18181b"/><g fill="#18181b"><path d="M267 -14Q214 -14 168.5 -3.5Q123 7 89.5 30.0Q56 53 38.5 91.5Q21 130 24 185L165 197Q167 164 180.0 142.5Q193 121 216.0 111.0Q239 101 272 101Q303 101 325.5 111.5Q348 122 348 147Q348 160 340.0 168.5Q332 177 310.5 184.5Q289 192 248 202Q197 215 156.0 228.0Q115 241 86.0 259.0Q57 277 42.0 303.5Q27 330 27 369Q27 424 56.5 462.5Q86 501 138.0 521.5Q190 542 258 542Q319 542 372.0 523.0Q425 504 455.5 461.0Q486 418 478 347L340 334Q343 363 332.0 383.5Q321 404 300.0 414.5Q279 425 249 425Q215 425 196.5 412.5Q178 400 178 381Q178 366 189.5 355.5Q201 345 225.5 337.5Q250 330 289 321Q323 314 360.0 303.0Q397 292 429.0 273.5Q461 255 481.0 225.0Q501 195 501 149Q501 100 474.0 63.0Q447 26 395.0 6.0Q343 -14 267 -14Z" transform="translate(20.21 50.37) scale(0.04496 -0.04496)"/></g></svg></a><a class="g-lnk on" href="../about/">About</a><a class="g-lnk" href="../projects/">Projects</a><a class="g-lnk" href="#contact">Contact</a><a class="g-cv" href="#" data-resume>Resume</a></nav></header>
+<header class="gnav"><nav class="gcap" aria-label="Primary"><a class="g-mark" href="../" aria-label="Stanley Ojima, home"><svg viewBox="0 0 64 64" width="100%" height="100%" aria-hidden="true"><g fill="#fff"><path d="M267 -14Q214 -14 168.5 -3.5Q123 7 89.5 30.0Q56 53 38.5 91.5Q21 130 24 185L165 197Q167 164 180.0 142.5Q193 121 216.0 111.0Q239 101 272 101Q303 101 325.5 111.5Q348 122 348 147Q348 160 340.0 168.5Q332 177 310.5 184.5Q289 192 248 202Q197 215 156.0 228.0Q115 241 86.0 259.0Q57 277 42.0 303.5Q27 330 27 369Q27 424 56.5 462.5Q86 501 138.0 521.5Q190 542 258 542Q319 542 372.0 523.0Q425 504 455.5 461.0Q486 418 478 347L340 334Q343 363 332.0 383.5Q321 404 300.0 414.5Q279 425 249 425Q215 425 196.5 412.5Q178 400 178 381Q178 366 189.5 355.5Q201 345 225.5 337.5Q250 330 289 321Q323 314 360.0 303.0Q397 292 429.0 273.5Q461 255 481.0 225.0Q501 195 501 149Q501 100 474.0 63.0Q447 26 395.0 6.0Q343 -14 267 -14Z" transform="translate(6.53 67.64) scale(0.09712 -0.09712)"/></g><rect y="57" width="64" height="7" fill="#b0512e"/></svg></a><a class="g-lnk on" href="../about/">About</a><a class="g-lnk" href="../projects/">Projects</a><a class="g-lnk" href="#contact">Contact</a><a class="g-cv" href="#" data-resume>Resume</a></nav></header>
 <div class="grain" aria-hidden="true"></div>
 <header class="nav nav-pill">
   <div class="nav-inner"><div class="capsule">

diff --git a/contact/index.html b/contact/index.html
@@ -1,10 +1,12 @@
 <!doctype html><html lang="en"><head><meta charset="utf-8"><title>Contact | Stanley Ojima</title>
+<meta name="color-scheme" content="only light">
 <meta name="viewport" content="width=device-width, initial-scale=1"><link rel="canonical" href="https://stanleyojima.xyz/#contact">
 <meta http-equiv="refresh" content="0; url=/#contact"><link rel="icon" href="/favicon.ico" sizes="48x48">
 <link rel="icon" type="image/png" sizes="32x32" href="/favicon-32.png">
 <link rel="icon" type="image/svg+xml" href="/favicon.svg">
 <style>body{margin:0;min-height:100vh;display:grid;place-items:center;font:16px/1.6 system-ui,sans-serif;background:#faf9f7;color:#18181b}a{color:#18181b}</style><script defer src="/_vercel/insights/script.js"></script>
-<style id="mark-pass">.mark,.g-mark{display:grid!important;place-items:center}.mark svg,.g-mark svg{width:64%;height:auto;display:block}</style>
+<style id="mark-pass">.mark,.g-mark{display:block!important;overflow:hidden;padding:0!important}.mark svg,.g-mark svg{width:100%;height:100%;display:block}</style>
+<style id="light-only">:root{color-scheme:only light}</style>
 </head>
 <body><p>Taking you to contact details… <a href="/#contact">Continue</a> · <a href="mailto:stanleyojima9@gmail.com">stanleyojima9@gmail.com</a></p>
 <script>location.replace('/#contact')</script></body></html>

diff --git a/work/dro-health/index.html b/work/dro-health/index.html
@@ -1,1 +1,3 @@
-<!doctype html><html lang="en"><head><meta charset="utf-8"><title>Moved</title><meta name="robots" content="noindex"><link rel="canonical" href="https://stanleyojima.xyz/projects/dro-health/"><meta http-equiv="refresh" content="0;url=/projects/dro-health/"><script>location.replace("/projects/dro-health/"+location.hash)</script></head><body><a href="/projects/dro-health/">Continue</a></body></html>
+<!doctype html><html lang="en"><head><meta charset="utf-8"><title>Moved</title><meta name="robots" content="noindex"><link rel="canonical" href="https://stanleyojima.xyz/projects/dro-health/"><meta http-equiv="refresh" content="0;url=/projects/dro-health/"><script>location.replace("/projects/dro-health/"+location.hash)</script><meta name="color-scheme" content="only light">
+<style id="light-only">:root{color-scheme:only light}</style>
+</head><body><a href="/projects/dro-health/">Continue</a></body></html>

diff --git a/work/lenox-park/index.html b/work/lenox-park/index.html
@@ -1,1 +1,3 @@
-<!doctype html><html lang="en"><head><meta charset="utf-8"><title>Moved</title><meta name="robots" content="noindex"><link rel="canonical" href="https://stanleyojima.xyz/projects/lenox-park/"><meta http-equiv="refresh" content="0;url=/projects/lenox-park/"><script>location.replace("/projects/lenox-park/"+location.hash)</script></head><body><a href="/projects/lenox-park/">Continue</a></body></html>
+<!doctype html><html lang="en"><head><meta charset="utf-8"><title>Moved</title><meta name="robots" content="noindex"><link rel="canonical" href="https://stanleyojima.xyz/projects/lenox-park/"><meta http-equiv="refresh" content="0;url=/projects/lenox-park/"><script>location.replace("/projects/lenox-park/"+location.hash)</script><meta name="color-scheme" content="only light">
+<style id="light-only">:root{color-scheme:only light}</style>
+</head><body><a href="/projects/lenox-park/">Continue</a></body></html>
